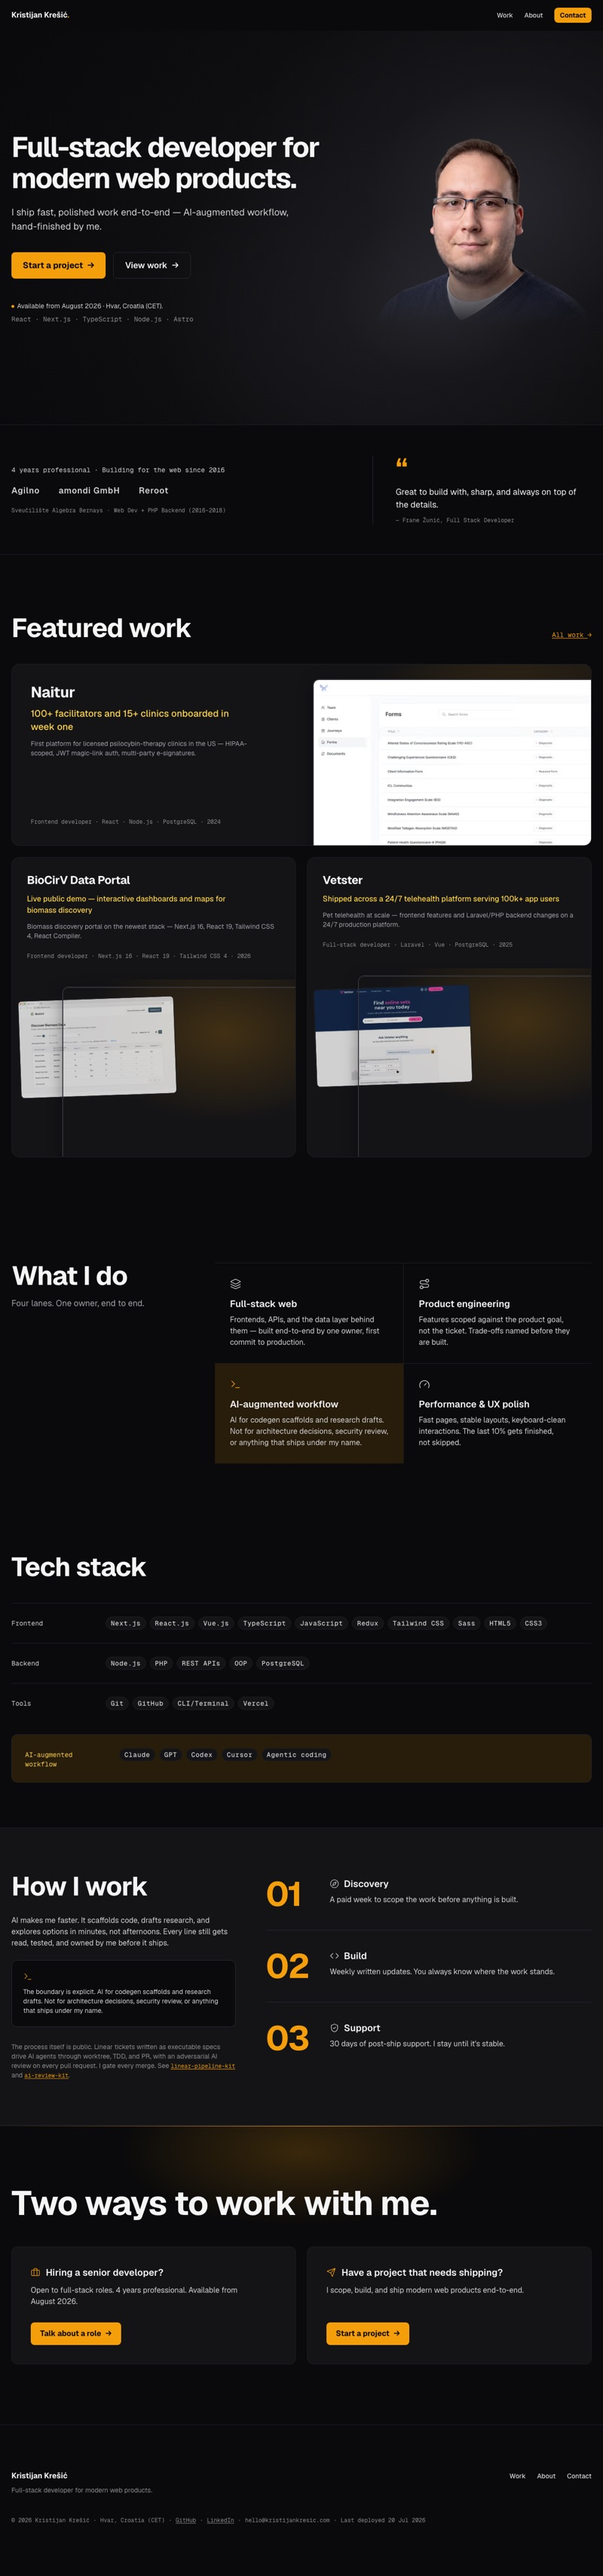
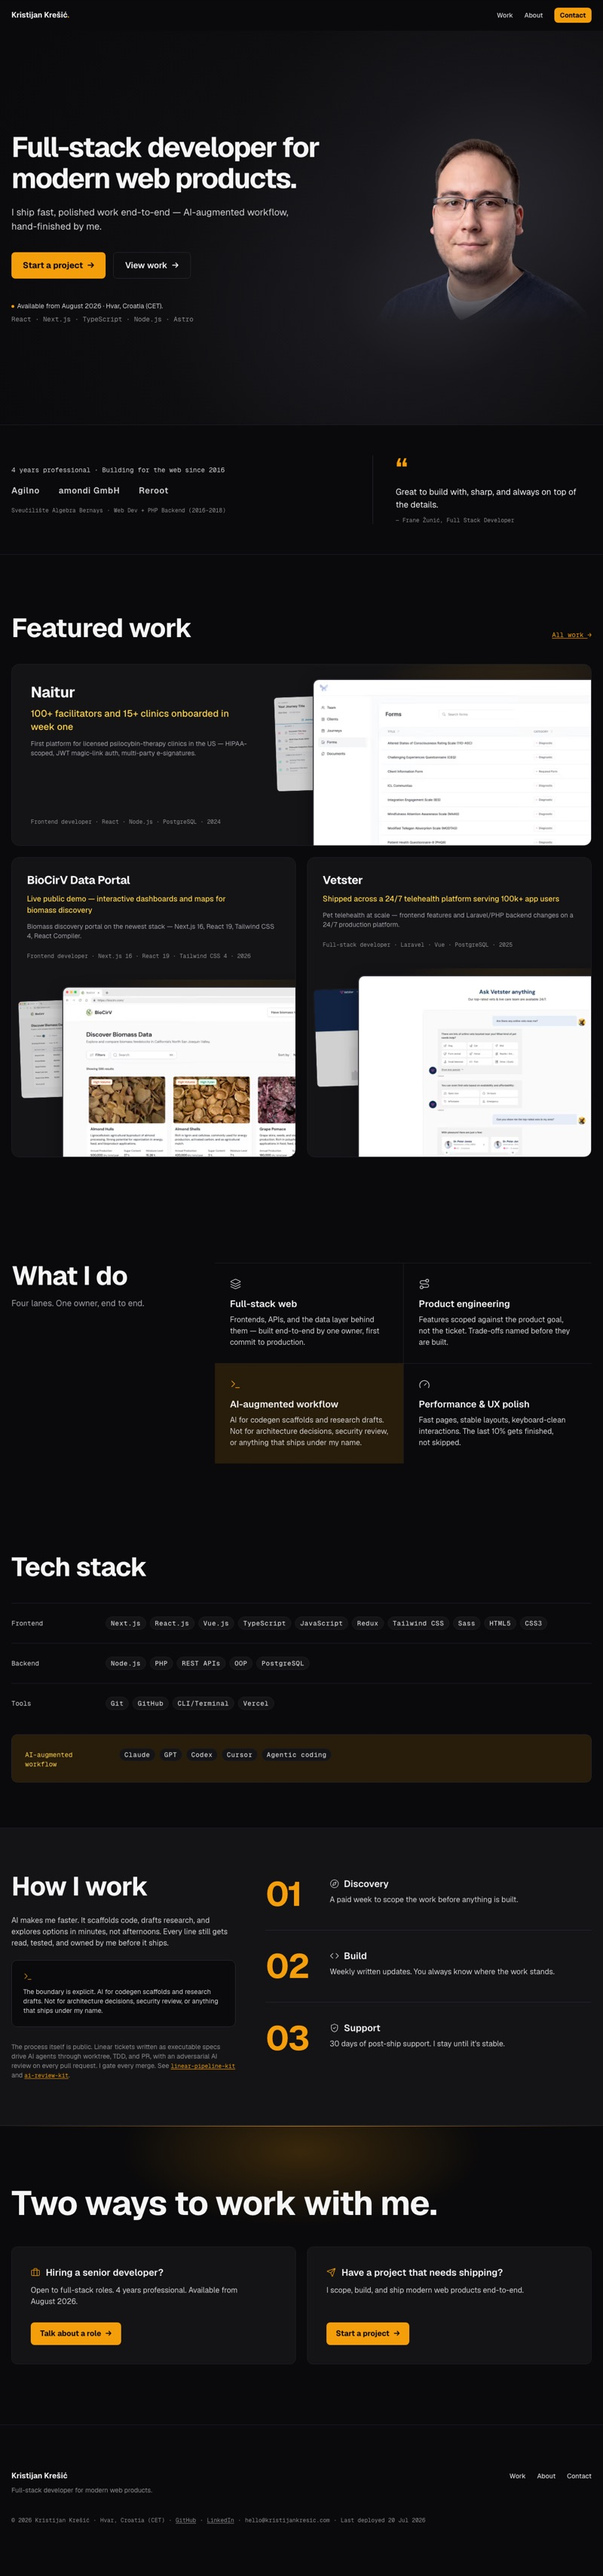
fix(featured-work): restore naitur peek via privacy-cropped derivative
Cover-only naitur broke the locked layered composition (other cards
keep peeks). New peek is a crop of the dashboard design export that
excludes the persona chrome entirely - shipped asset contains zero
identity-shaped pixels; visual treatment stays CSS. Reproduce with:
sharp(naitur-design-dashboard.png).extract({left:326,top:211,
width:2420,height:1512}).resize({width:1000}).webp({quality:80}).
After-screenshots regenerated from the new build.

Changed region(s): [[0.5938, 0.3723, 1.0, 0.4653], [0.0938, 0.3723, 0.5, 0.4653], [0.4375, 0.2482, 0.5312, 0.3102]]

diff --git a/src/components/sections/sections.test.ts b/src/components/sections/sections.test.ts
@@ -56,6 +56,7 @@ const workEntries = [
       featured: true,
       order: 1,
       cover: 'naitur-forms.webp',
+      coverPeek: 'naitur-peek.webp',
       coverAlt: 'Naitur forms catalog',
     },
   },
@@ -222,9 +223,8 @@ describe('FeaturedWork', () => {
     expect(featuredWorkHtml).toContain('BioCirV Discover biomass data grid');
     expect(featuredWorkHtml).toContain('Vetster — Ask Vetster AI chat');
     expect(featuredWorkHtml).toContain('loading="lazy"');
-    // 3 main covers + 2 peeking signature frames (naitur ships cover-only:
-    // every other harvest frame shows client-identity placeholder data).
-    expect((featuredWorkHtml.match(/<img/g) ?? []).length).toBeGreaterThanOrEqual(5);
+    // Main cover + peeking signature frame per card = at least 6 images.
+    expect((featuredWorkHtml.match(/<img/g) ?? []).length).toBeGreaterThanOrEqual(6);
   });
 
   it('ships zero client JS and no raw hex', () => {
